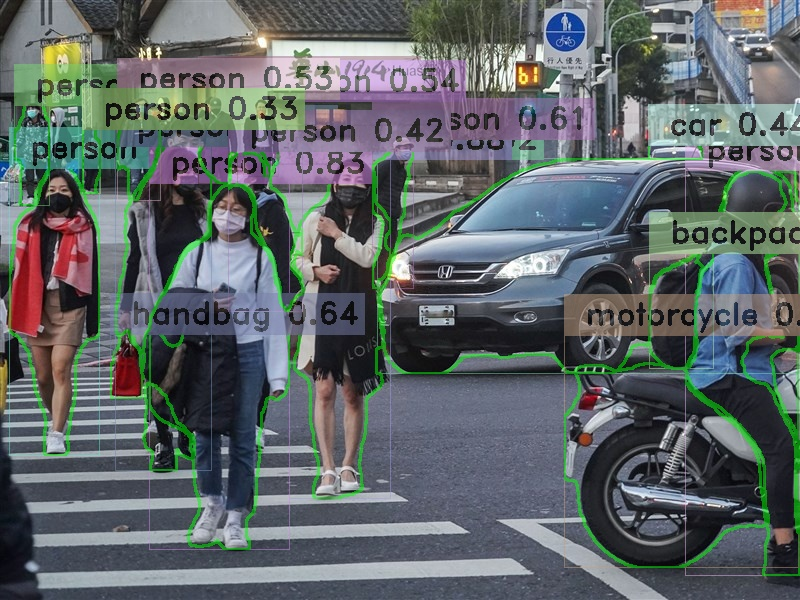
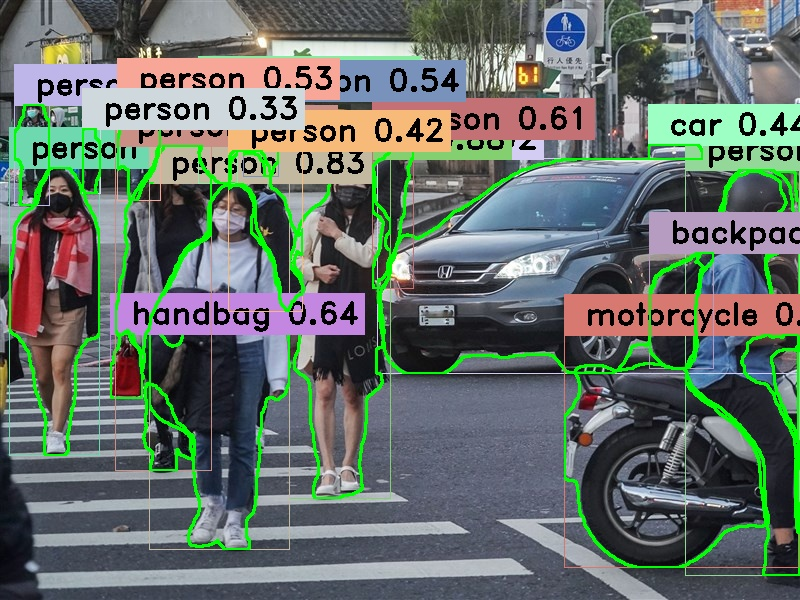
update contours

diff --git a/main.cpp b/main.cpp
@@ -49,24 +49,17 @@ void Test() {
             cv::Scalar color = detection.color;
             // Detection box
             cv::rectangle(image, box, color, 1);
-            // mask(detection.box).setTo(color, detection.boxMask);
-
-            std::vector<std::vector<cv::Point>> contours;
-            cv::findContours(detection.boxMask, contours, cv::RETR_EXTERNAL, cv::CHAIN_APPROX_SIMPLE);
-            cv::drawContours(image(box), contours, -1, cv::Scalar(0, 255, 0), 2);
-            
-
             // Detection box text
             std::string classString = detection.className + " " + std::to_string(detection.confidence).substr(0, 4);
             cv::Size textSize = cv::getTextSize(classString, cv::FONT_HERSHEY_DUPLEX, 1, 2, 0);
             cv::Rect textBox(box.x, box.y - 40, textSize.width + 10, textSize.height + 20);
             cv::rectangle(image, textBox, color, cv::FILLED);
             cv::putText(image, classString, cv::Point(box.x + 5, box.y - 10), cv::FONT_HERSHEY_DUPLEX, 1, cv::Scalar(0, 0, 0), 2);
-
+            // Segmentation mask contours
+            std::vector<std::vector<cv::Point>> contours = detection.contours;
+            cv::drawContours(image(box), contours, -1, cv::Scalar(0, 255, 0), 2);
         }
-        // Detection mask
         if (model.find("seg") != std::string::npos) {
-            cv::addWeighted(image, 0.5, mask, 0.5, 0, image);
             std::filesystem::path outputPath = projectRoot / "output/seg_result.jpg";
             cv::imwrite(outputPath, image);
             std::cout << "[YOLO_V8(SEG)]: Result image saved at: " << outputPath << std::endl;

diff --git a/inference.cpp b/inference.cpp
@@ -219,7 +219,10 @@ void GetMask(const int* const _seg_params, const float& rectConfidenceThreshold,
         //crop
         cv::Rect temp_rect = output[i].box;
         mask = mask(temp_rect) > rectConfidenceThreshold;
-        output[i].boxMask = mask;
+        std::vector<std::vector<cv::Point>> contours;
+        cv::findContours(mask, contours, cv::RETR_EXTERNAL, cv::CHAIN_APPROX_SIMPLE);
+        output[i].contours = contours;
+        // output[i].boxMask = mask;
     }
 }
 

diff --git a/inference.h b/inference.h
@@ -40,8 +40,7 @@ typedef struct _DL_RESULT
     std::string className;
     float confidence;
     cv::Rect box;
-    cv::Mat boxMask; //detect矩形框内mask
-    // std::vector<std::vector<cv::Point>> contours; // 分割的轮廓点
+    std::vector<std::vector<cv::Point>> contours; // 分割的轮廓点
     cv::Scalar color;
 } DL_RESULT;
 
